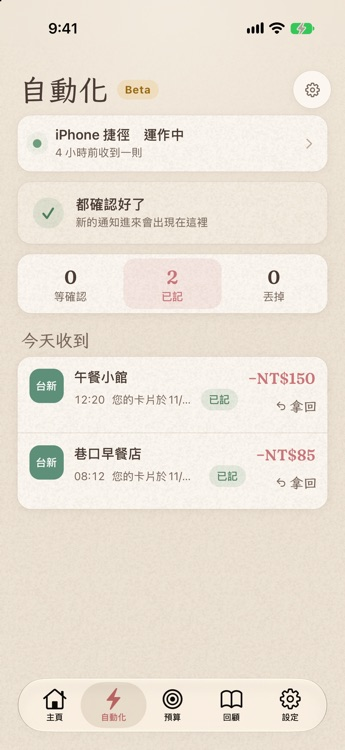
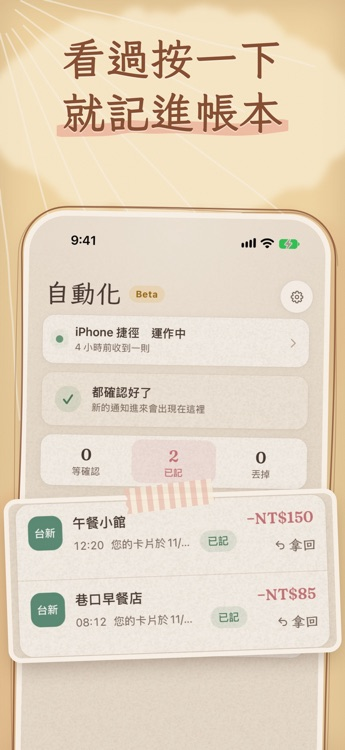
看看畫面的自動記帳兩張改成跟其他張一樣的商店截圖樣式（手寫標題、手機斜放、放大貼上），小字改成功能名稱（使用者 11-18：太突兀）

diff --git a/ja/index.html b/ja/index.html
@@ -181,7 +181,7 @@ footer a{text-underline-offset:3px}
 <div class="get"><div class="cta"><a class="btn" href="https://testflight.apple.com/join/cSRpbd5j" target="_blank" rel="noopener">iPhone 公開テスト</a><a class="btn" href="android.html">Android テスト版</a></div>
 <p class="note">無料でしっかり家計簿。繁體中文・简体中文・English・日本語に対応。App Store・Google Play で近日公開。</p></div></section>
 <section class="card"><h2>わたうさ家計簿でできること</h2><div class="grid"><div class="feat"><span class="ic"><svg aria-hidden="true"><use href="#i-pen"/></svg></span><div><h3>タップで記録</h3><p>カテゴリを選んで金額を入れるだけ。ホームにすぐ表示されます。</p></div></div><div class="feat"><span class="ic"><svg aria-hidden="true"><use href="#i-home"/></svg></span><div><h3>うさぎの小部屋</h3><p>昼は午後の手帳、夜は雨の降る窓辺。</p></div></div><div class="feat"><span class="ic"><svg aria-hidden="true"><use href="#i-ring"/></svg></span><div><h3>予算がひと目で</h3><p>残りの予算は円グラフで。使いすぎたカテゴリは赤くなります。</p></div></div><div class="feat"><span class="ic"><svg aria-hidden="true"><use href="#i-stamp"/></svg></span><div><h3>貯金はスタンプカード</h3><p>貯金箱はスタンプカード。貯めるたびにひとつ押します。</p></div></div><div class="feat"><span class="ic"><svg aria-hidden="true"><use href="#i-two"/></svg></span><div><h3>ふたりで記録</h3><p>カップルやルームメイトで1冊を共有。誰が記録したかもわかります。</p></div></div><div class="feat"><span class="ic"><svg aria-hidden="true"><use href="#i-widget"/></svg></span><div><h3>ホーム画面ウィジェット</h3><p>3種類のウィジェット。ホーム画面からワンタップで記録。</p></div></div><div class="feat"><span class="ic"><svg aria-hidden="true"><use href="#i-plane"/></svg></span><div><h3>旅行は外貨で</h3><p>旅行用の家計簿を作れば、外貨を自動で換算します。</p></div></div><div class="feat"><span class="ic"><svg aria-hidden="true"><use href="#i-cal"/></svg></span><div><h3>月のふりかえり</h3><p>月初に先月の使いみちと貯金をまとめます。</p></div></div></div></section>
-<section class="card" id="shots"><h2>画面を見る</h2><p class="sub">すべてアプリの実際の画面です。左にスワイプでもっと見られます。</p><div class="strip"><figure class="shot"><img src="../img/s01.jpg" alt="ホーム" width="600" height="1305"><figcaption>ホーム</figcaption></figure><figure class="shot"><img src="../img/auto-note.jpg" alt="うさぎが自動入力" loading="lazy" width="600" height="1305"><figcaption>うさぎが自動入力</figcaption></figure><figure class="shot"><img src="../img/auto-list.jpg" alt="カード払いを自動記録" loading="lazy" width="600" height="1305"><figcaption>カード払いを自動記録</figcaption></figure><figure class="shot"><img src="../img/s06.jpg" alt="記録" loading="lazy" width="600" height="1305"><figcaption>記録</figcaption></figure><figure class="shot"><img src="../img/s08.jpg" alt="予算" loading="lazy" width="600" height="1305"><figcaption>予算</figcaption></figure><figure class="shot"><img src="../img/s09.jpg" alt="貯金箱" loading="lazy" width="600" height="1305"><figcaption>貯金箱</figcaption></figure><figure class="shot"><img src="../img/s04.jpg" alt="共有家計簿" loading="lazy" width="600" height="1305"><figcaption>共有家計簿</figcaption></figure><figure class="shot"><img src="../img/s03.jpg" alt="ウィジェット" loading="lazy" width="600" height="1305"><figcaption>ウィジェット</figcaption></figure><figure class="shot"><img src="../img/s05.jpg" alt="夜" loading="lazy" width="600" height="1305"><figcaption>夜</figcaption></figure></div></section>
+<section class="card" id="shots"><h2>画面を見る</h2><p class="sub">すべてアプリの実際の画面です。左にスワイプでもっと見られます。</p><div class="strip"><figure class="shot"><img src="../img/s01.jpg" alt="ホーム" width="600" height="1305"><figcaption>ホーム</figcaption></figure><figure class="shot"><img src="../img/auto-note.jpg" alt="自動記録" loading="lazy" width="600" height="1305"><figcaption>自動記録</figcaption></figure><figure class="shot"><img src="../img/auto-list.jpg" alt="自動化" loading="lazy" width="600" height="1305"><figcaption>自動化</figcaption></figure><figure class="shot"><img src="../img/s06.jpg" alt="記録" loading="lazy" width="600" height="1305"><figcaption>記録</figcaption></figure><figure class="shot"><img src="../img/s08.jpg" alt="予算" loading="lazy" width="600" height="1305"><figcaption>予算</figcaption></figure><figure class="shot"><img src="../img/s09.jpg" alt="貯金箱" loading="lazy" width="600" height="1305"><figcaption>貯金箱</figcaption></figure><figure class="shot"><img src="../img/s04.jpg" alt="共有家計簿" loading="lazy" width="600" height="1305"><figcaption>共有家計簿</figcaption></figure><figure class="shot"><img src="../img/s03.jpg" alt="ウィジェット" loading="lazy" width="600" height="1305"><figcaption>ウィジェット</figcaption></figure><figure class="shot"><img src="../img/s05.jpg" alt="夜" loading="lazy" width="600" height="1305"><figcaption>夜</figcaption></figure></div></section>
 <section class="card peach"><h2>データはあなたの手元に</h2><div class="trust"><div><b>広告なし</b>開けばすぐ記録。広告は出ません。</div><div><b>データ収集なし</b>サーバーがないので、記録を見ることはできません。</div><div><b>あなたの iCloud</b>機種変更してもデータはそのまま。</div><div><b>Face ID でロック</b>スマホを貸しても中は見られません。</div></div></section>
 <footer>
 <nav><a href="privacy.html">プライバシーポリシー</a><a href="terms.html">利用規約</a><a href="https://www.threads.com/@yuzuki.tw" target="_blank" rel="noopener">Threads @yuzuki.tw</a></nav>

diff --git a/zh-Hans/index.html b/zh-Hans/index.html
@@ -181,7 +181,7 @@ footer a{text-underline-offset:3px}
 <div class="get"><div class="cta"><a class="btn" href="https://testflight.apple.com/join/cSRpbd5j" target="_blank" rel="noopener">iPhone 公开测试</a><a class="btn" href="android.html">Android 测试版</a></div>
 <p class="note">免费就能完整记账。支持繁體中文、简体中文、English、日本語。App Store、Google Play 即将上架。</p></div></section>
 <section class="card"><h2>棉棉兔可以做什么</h2><div class="grid"><div class="feat"><span class="ic"><svg aria-hidden="true"><use href="#i-pen"/></svg></span><div><h3>点一下就记好</h3><p>点分类、输金额，一笔就记好，首页马上看到。</p></div></div><div class="feat"><span class="ic"><svg aria-hidden="true"><use href="#i-home"/></svg></span><div><h3>兔兔的小房间</h3><p>白天是午后手账，晚上是下雨的床边窗。</p></div></div><div class="feat"><span class="ic"><svg aria-hidden="true"><use href="#i-ring"/></svg></span><div><h3>预算看得见</h3><p>总预算还剩多少一圈看懂，每一类超支会变红。</p></div></div><div class="feat"><span class="ic"><svg aria-hidden="true"><use href="#i-stamp"/></svg></span><div><h3>存钱像集点</h3><p>存钱罐是一张集点卡，存一次盖一个章。</p></div></div><div class="feat"><span class="ic"><svg aria-hidden="true"><use href="#i-two"/></svg></span><div><h3>两个人一起记</h3><p>情侣、室友共用一本，每笔都标着是谁记的。</p></div></div><div class="feat"><span class="ic"><svg aria-hidden="true"><use href="#i-widget"/></svg></span><div><h3>桌面小组件</h3><p>三款小组件，在桌面点一下就能记一笔。</p></div></div><div class="feat"><span class="ic"><svg aria-hidden="true"><use href="#i-plane"/></svg></span><div><h3>出国用外币记</h3><p>开一本旅行账本，外币自动换算。</p></div></div><div class="feat"><span class="ic"><svg aria-hidden="true"><use href="#i-cal"/></svg></span><div><h3>每月回顾</h3><p>月初帮你整理上个月花在哪、存下多少。</p></div></div></div></section>
-<section class="card" id="shots"><h2>看看界面</h2><p class="sub">都是 App 里的真实界面，往左滑看更多。</p><div class="strip"><figure class="shot"><img src="../img/s01.jpg" alt="首页" width="600" height="1305"><figcaption>首页</figcaption></figure><figure class="shot"><img src="../img/auto-note.jpg" alt="兔兔帮你填好" loading="lazy" width="600" height="1305"><figcaption>兔兔帮你填好</figcaption></figure><figure class="shot"><img src="../img/auto-list.jpg" alt="刷完卡自动记" loading="lazy" width="600" height="1305"><figcaption>刷完卡自动记</figcaption></figure><figure class="shot"><img src="../img/s06.jpg" alt="记一笔" loading="lazy" width="600" height="1305"><figcaption>记一笔</figcaption></figure><figure class="shot"><img src="../img/s08.jpg" alt="预算" loading="lazy" width="600" height="1305"><figcaption>预算</figcaption></figure><figure class="shot"><img src="../img/s09.jpg" alt="存钱罐" loading="lazy" width="600" height="1305"><figcaption>存钱罐</figcaption></figure><figure class="shot"><img src="../img/s04.jpg" alt="共享账本" loading="lazy" width="600" height="1305"><figcaption>共享账本</figcaption></figure><figure class="shot"><img src="../img/s03.jpg" alt="桌面小组件" loading="lazy" width="600" height="1305"><figcaption>桌面小组件</figcaption></figure><figure class="shot"><img src="../img/s05.jpg" alt="夜晚" loading="lazy" width="600" height="1305"><figcaption>夜晚</figcaption></figure></div></section>
+<section class="card" id="shots"><h2>看看界面</h2><p class="sub">都是 App 里的真实界面，往左滑看更多。</p><div class="strip"><figure class="shot"><img src="../img/s01.jpg" alt="首页" width="600" height="1305"><figcaption>首页</figcaption></figure><figure class="shot"><img src="../img/auto-note.jpg" alt="自动记账" loading="lazy" width="600" height="1305"><figcaption>自动记账</figcaption></figure><figure class="shot"><img src="../img/auto-list.jpg" alt="自动化" loading="lazy" width="600" height="1305"><figcaption>自动化</figcaption></figure><figure class="shot"><img src="../img/s06.jpg" alt="记一笔" loading="lazy" width="600" height="1305"><figcaption>记一笔</figcaption></figure><figure class="shot"><img src="../img/s08.jpg" alt="预算" loading="lazy" width="600" height="1305"><figcaption>预算</figcaption></figure><figure class="shot"><img src="../img/s09.jpg" alt="存钱罐" loading="lazy" width="600" height="1305"><figcaption>存钱罐</figcaption></figure><figure class="shot"><img src="../img/s04.jpg" alt="共享账本" loading="lazy" width="600" height="1305"><figcaption>共享账本</figcaption></figure><figure class="shot"><img src="../img/s03.jpg" alt="桌面小组件" loading="lazy" width="600" height="1305"><figcaption>桌面小组件</figcaption></figure><figure class="shot"><img src="../img/s05.jpg" alt="夜晚" loading="lazy" width="600" height="1305"><figcaption>夜晚</figcaption></figure></div></section>
 <section class="card peach"><h2>账只在你手上</h2><div class="trust"><div><b>没有广告</b>打开就是记账，不会弹出广告。</div><div><b>不收集数据</b>我们没有服务器，看不到你的账。</div><div><b>你的 iCloud</b>换手机数据也还在。</div><div><b>Face ID 上锁</b>别人拿到手机也打不开。</div></div></section>
 <footer>
 <nav><a href="privacy.html">隐私政策</a><a href="terms.html">使用条款</a><a href="https://www.threads.com/@yuzuki.tw" target="_blank" rel="noopener">Threads @yuzuki.tw</a></nav>

diff --git a/en/index.html b/en/index.html
@@ -181,7 +181,7 @@ footer a{text-underline-offset:3px}
 <div class="get"><div class="cta"><a class="btn" href="https://testflight.apple.com/join/cSRpbd5j" target="_blank" rel="noopener">Join the iPhone beta</a><a class="btn" href="android.html">Android beta</a></div>
 <p class="note">Full expense tracking for free. Available in 繁體中文, 简体中文, English and 日本語. Coming soon to the App Store and Google Play.</p></div></section>
 <section class="card"><h2>What Cotton can do</h2><div class="grid"><div class="feat"><span class="ic"><svg aria-hidden="true"><use href="#i-pen"/></svg></span><div><h3>Log in a tap</h3><p>Pick a category, type the amount, done. It shows up on Home right away.</p></div></div><div class="feat"><span class="ic"><svg aria-hidden="true"><use href="#i-home"/></svg></span><div><h3>Cotton&#x27;s room</h3><p>A sunlit afternoon journal by day, a rainy window by night.</p></div></div><div class="feat"><span class="ic"><svg aria-hidden="true"><use href="#i-ring"/></svg></span><div><h3>Budgets you can see</h3><p>One ring shows what&#x27;s left. Overspent categories turn red.</p></div></div><div class="feat"><span class="ic"><svg aria-hidden="true"><use href="#i-stamp"/></svg></span><div><h3>Saving like a stamp card</h3><p>Every time you save, you get a stamp.</p></div></div><div class="feat"><span class="ic"><svg aria-hidden="true"><use href="#i-two"/></svg></span><div><h3>Budget together</h3><p>Share a ledger with your partner or roommate and see who logged what.</p></div></div><div class="feat"><span class="ic"><svg aria-hidden="true"><use href="#i-widget"/></svg></span><div><h3>Home Screen widgets</h3><p>Three widgets. Tap to log right from your Home Screen.</p></div></div><div class="feat"><span class="ic"><svg aria-hidden="true"><use href="#i-plane"/></svg></span><div><h3>Travel in any currency</h3><p>Make a travel ledger and foreign currency converts automatically.</p></div></div><div class="feat"><span class="ic"><svg aria-hidden="true"><use href="#i-cal"/></svg></span><div><h3>Monthly recap</h3><p>At the start of each month, see where last month&#x27;s money went.</p></div></div></div></section>
-<section class="card" id="shots"><h2>Take a look</h2><p class="sub">Real screens from the app. Swipe left for more.</p><div class="strip"><figure class="shot"><img src="../img/s01.jpg" alt="Home" width="600" height="1305"><figcaption>Home</figcaption></figure><figure class="shot"><img src="../img/auto-note.jpg" alt="Filled in for you" loading="lazy" width="600" height="1305"><figcaption>Filled in for you</figcaption></figure><figure class="shot"><img src="../img/auto-list.jpg" alt="Card swipes, logged" loading="lazy" width="600" height="1305"><figcaption>Card swipes, logged</figcaption></figure><figure class="shot"><img src="../img/s06.jpg" alt="New entry" loading="lazy" width="600" height="1305"><figcaption>New entry</figcaption></figure><figure class="shot"><img src="../img/s08.jpg" alt="Budget" loading="lazy" width="600" height="1305"><figcaption>Budget</figcaption></figure><figure class="shot"><img src="../img/s09.jpg" alt="Savings" loading="lazy" width="600" height="1305"><figcaption>Savings</figcaption></figure><figure class="shot"><img src="../img/s04.jpg" alt="Shared ledger" loading="lazy" width="600" height="1305"><figcaption>Shared ledger</figcaption></figure><figure class="shot"><img src="../img/s03.jpg" alt="Widgets" loading="lazy" width="600" height="1305"><figcaption>Widgets</figcaption></figure><figure class="shot"><img src="../img/s05.jpg" alt="Night" loading="lazy" width="600" height="1305"><figcaption>Night</figcaption></figure></div></section>
+<section class="card" id="shots"><h2>Take a look</h2><p class="sub">Real screens from the app. Swipe left for more.</p><div class="strip"><figure class="shot"><img src="../img/s01.jpg" alt="Home" width="600" height="1305"><figcaption>Home</figcaption></figure><figure class="shot"><img src="../img/auto-note.jpg" alt="Auto entry" loading="lazy" width="600" height="1305"><figcaption>Auto entry</figcaption></figure><figure class="shot"><img src="../img/auto-list.jpg" alt="Automation" loading="lazy" width="600" height="1305"><figcaption>Automation</figcaption></figure><figure class="shot"><img src="../img/s06.jpg" alt="New entry" loading="lazy" width="600" height="1305"><figcaption>New entry</figcaption></figure><figure class="shot"><img src="../img/s08.jpg" alt="Budget" loading="lazy" width="600" height="1305"><figcaption>Budget</figcaption></figure><figure class="shot"><img src="../img/s09.jpg" alt="Savings" loading="lazy" width="600" height="1305"><figcaption>Savings</figcaption></figure><figure class="shot"><img src="../img/s04.jpg" alt="Shared ledger" loading="lazy" width="600" height="1305"><figcaption>Shared ledger</figcaption></figure><figure class="shot"><img src="../img/s03.jpg" alt="Widgets" loading="lazy" width="600" height="1305"><figcaption>Widgets</figcaption></figure><figure class="shot"><img src="../img/s05.jpg" alt="Night" loading="lazy" width="600" height="1305"><figcaption>Night</figcaption></figure></div></section>
 <section class="card peach"><h2>Your money stays yours</h2><div class="trust"><div><b>No ads</b>Open it and log. No ads, ever.</div><div><b>No data collection</b>We have no servers and can&#x27;t see your records.</div><div><b>Your own iCloud</b>Switch phones and everything comes with you.</div><div><b>Face ID lock</b>Hand someone your phone without worry.</div></div></section>
 <footer>
 <nav><a href="privacy.html">Privacy</a><a href="terms.html">Terms</a><a href="https://www.threads.com/@yuzuki.tw" target="_blank" rel="noopener">Threads @yuzuki.tw</a></nav>

diff --git a/zh-Hant/index.html b/zh-Hant/index.html
@@ -181,7 +181,7 @@ footer a{text-underline-offset:3px}
 <div class="get"><div class="cta"><a class="btn" href="https://testflight.apple.com/join/cSRpbd5j" target="_blank" rel="noopener">iPhone 公開測試</a><a class="btn" href="android.html">Android 測試版</a></div>
 <p class="note">免費就能完整記帳。支援繁體中文、简体中文、English、日本語。App Store、Google Play 即將上架。</p></div></section>
 <section class="card"><h2>棉棉兔可以做什麼</h2><div class="grid"><div class="feat"><span class="ic"><svg aria-hidden="true"><use href="#i-pen"/></svg></span><div><h3>點一下就記好</h3><p>點分類、打金額，一筆就記好，主頁馬上看到。</p></div></div><div class="feat"><span class="ic"><svg aria-hidden="true"><use href="#i-home"/></svg></span><div><h3>兔兔的小房間</h3><p>白天是午後手帳，晚上是下雨的床邊窗。</p></div></div><div class="feat"><span class="ic"><svg aria-hidden="true"><use href="#i-ring"/></svg></span><div><h3>預算看得見</h3><p>總預算還剩多少一圈看懂，每一類超支會變紅。</p></div></div><div class="feat"><span class="ic"><svg aria-hidden="true"><use href="#i-stamp"/></svg></span><div><h3>存錢像集點</h3><p>存錢罐是一張集點卡，存一次蓋一個章。</p></div></div><div class="feat"><span class="ic"><svg aria-hidden="true"><use href="#i-two"/></svg></span><div><h3>兩個人一起記</h3><p>情侶、室友共用一本，每筆貼著是誰記的。</p></div></div><div class="feat"><span class="ic"><svg aria-hidden="true"><use href="#i-widget"/></svg></span><div><h3>桌面小插件</h3><p>三款小插件，在桌面按一下就能記一筆。</p></div></div><div class="feat"><span class="ic"><svg aria-hidden="true"><use href="#i-plane"/></svg></span><div><h3>出國用外幣記</h3><p>開一本旅行帳本，外幣自動換算。</p></div></div><div class="feat"><span class="ic"><svg aria-hidden="true"><use href="#i-cal"/></svg></span><div><h3>每月回顧</h3><p>月初幫你整理上個月花在哪、存下多少。</p></div></div></div></section>
-<section class="card" id="shots"><h2>看看畫面</h2><p class="sub">都是 App 裡的真畫面，往左滑看更多。</p><div class="strip"><figure class="shot"><img src="../img/s01.jpg" alt="主頁" width="600" height="1305"><figcaption>主頁</figcaption></figure><figure class="shot"><img src="../img/auto-note.jpg" alt="兔兔幫你填好" loading="lazy" width="600" height="1305"><figcaption>兔兔幫你填好</figcaption></figure><figure class="shot"><img src="../img/auto-list.jpg" alt="刷完卡自動記" loading="lazy" width="600" height="1305"><figcaption>刷完卡自動記</figcaption></figure><figure class="shot"><img src="../img/s06.jpg" alt="記一筆" loading="lazy" width="600" height="1305"><figcaption>記一筆</figcaption></figure><figure class="shot"><img src="../img/s08.jpg" alt="預算" loading="lazy" width="600" height="1305"><figcaption>預算</figcaption></figure><figure class="shot"><img src="../img/s09.jpg" alt="存錢罐" loading="lazy" width="600" height="1305"><figcaption>存錢罐</figcaption></figure><figure class="shot"><img src="../img/s04.jpg" alt="共享帳本" loading="lazy" width="600" height="1305"><figcaption>共享帳本</figcaption></figure><figure class="shot"><img src="../img/s03.jpg" alt="桌面小插件" loading="lazy" width="600" height="1305"><figcaption>桌面小插件</figcaption></figure><figure class="shot"><img src="../img/s05.jpg" alt="夜晚" loading="lazy" width="600" height="1305"><figcaption>夜晚</figcaption></figure></div></section>
+<section class="card" id="shots"><h2>看看畫面</h2><p class="sub">都是 App 裡的真畫面，往左滑看更多。</p><div class="strip"><figure class="shot"><img src="../img/s01.jpg" alt="主頁" width="600" height="1305"><figcaption>主頁</figcaption></figure><figure class="shot"><img src="../img/auto-note.jpg" alt="自動記帳" loading="lazy" width="600" height="1305"><figcaption>自動記帳</figcaption></figure><figure class="shot"><img src="../img/auto-list.jpg" alt="自動化" loading="lazy" width="600" height="1305"><figcaption>自動化</figcaption></figure><figure class="shot"><img src="../img/s06.jpg" alt="記一筆" loading="lazy" width="600" height="1305"><figcaption>記一筆</figcaption></figure><figure class="shot"><img src="../img/s08.jpg" alt="預算" loading="lazy" width="600" height="1305"><figcaption>預算</figcaption></figure><figure class="shot"><img src="../img/s09.jpg" alt="存錢罐" loading="lazy" width="600" height="1305"><figcaption>存錢罐</figcaption></figure><figure class="shot"><img src="../img/s04.jpg" alt="共享帳本" loading="lazy" width="600" height="1305"><figcaption>共享帳本</figcaption></figure><figure class="shot"><img src="../img/s03.jpg" alt="桌面小插件" loading="lazy" width="600" height="1305"><figcaption>桌面小插件</figcaption></figure><figure class="shot"><img src="../img/s05.jpg" alt="夜晚" loading="lazy" width="600" height="1305"><figcaption>夜晚</figcaption></figure></div></section>
 <section class="card peach"><h2>帳只在你手上</h2><div class="trust"><div><b>沒有廣告</b>打開就是記帳，不會跳出廣告。</div><div><b>不收集資料</b>我們沒有伺服器，看不到你的帳。</div><div><b>你的 iCloud</b>換手機資料也還在。</div><div><b>Face ID 上鎖</b>別人拿到手機也打不開。</div></div></section>
 <footer>
 <nav><a href="privacy.html">隱私權政策</a><a href="terms.html">使用條款</a><a href="https://www.threads.com/@yuzuki.tw" target="_blank" rel="noopener">脆 @yuzuki.tw</a></nav>
